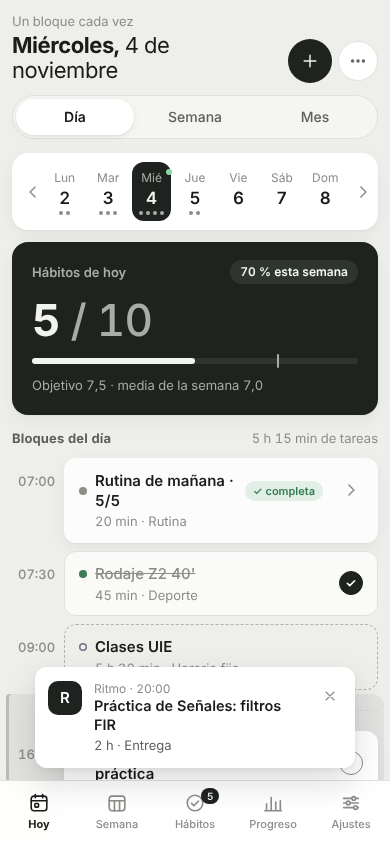
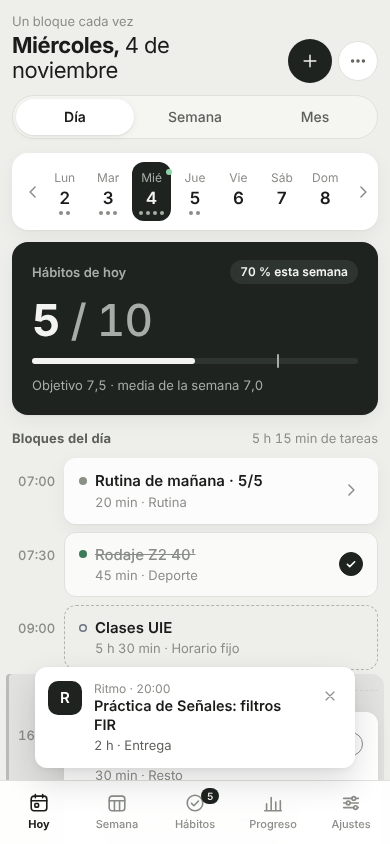
26-ritmo: organizador de hábitos y rutinas terminado (55 tests + smoke)
Bloques del día con franjas de foco, revisión nocturna con propuesta de bloques,
mínimos de deporte y francés, rutinas Mañana/Noche, .ics y JSON; escribe en habitos.v1
con protocolo de lectura-modificación-escritura y lee el resto de apps en solo lectura.

Claude-Session: https://claude.ai/code/session_01EwHxjkazRTL95ooTegBwNP

diff --git a/26-ritmo/styles.css b/26-ritmo/styles.css
@@ -115,6 +115,7 @@ main { margin-left: var(--sidebar-w); padding: var(--s-5); min-height: 100vh; }
 .btn .ic { width: 18px; height: 18px; }
 .btn-primary { background: var(--dark); color: var(--on-dark); }
 .btn-primary:hover { background: color-mix(in srgb, var(--dark) 88%, #fff); }
+@media (prefers-color-scheme: dark) { .btn-primary, .toast-act { box-shadow: inset 0 0 0 1px color-mix(in srgb, var(--accent) 45%, transparent); } }
 .btn-secondary { background: var(--surface); color: var(--ink); border-color: var(--line); }
 .btn-secondary:hover { background: var(--surface-2); }
 .btn-ghost { background: transparent; color: var(--ink-2); }

diff --git a/26-ritmo/README.md b/26-ritmo/README.md
@@ -1,0 +1,132 @@
+# 26 · Ritmo — Mi organizador de hábitos y rutinas
+
+## 1. Qué es y para qué te sirve
+
+**Ritmo es tu hub del día: planifico, organizo tareas y sigo mis hábitos sin saltar entre apps.** Convierte la skill
+`01-claude-skills/organizador-diario` en una herramienta que se abre con doble clic:
+
+- **Orden de prioridad fijo:** evento → entrega (peso × urgencia) → mínimos de deporte y francés → Fase 0 → resto.
+- **Franjas de energía:** entreno solo antes de las 9:00 o desde las 19:00; **20:00–23:00 mejor foco** (deep work);
+  **15:00–17:00 peor foco** (tareas mecánicas). Ritmo avisa si colocas algo donde no toca.
+- **Mínimos innegociables como números:** deporte **suelo 3 · estándar 5** por semana (contando Hábitos, Gym Tracker,
+  carreras de Paso y tus tareas hechas, sin contar dos veces la misma sesión) y francés **30' al día con arrastre**
+  (lo que no haces hoy se suma mañana, exactamente como en `21-idiomas-plan`).
+- **Tus 10 hábitos, objetivo 7,5/día**, compartidos con `15-habitos` (mismo `habitos.v1`): marcas en Ritmo y lo ves
+  en la hoja completa, y al revés. Lo mejor de la captura que te gustaba: **rutinas y progreso en un solo sitio**.
+- **Revisión nocturna** tarea a tarea que te propone los bloques de mañana (Top 3, lo que se mueve y hábitos en riesgo).
+- **Mis apps:** Gym, Idiomas, Finanzas, Paso y Hábitos de un vistazo (solo lectura).
+
+| Escritorio | Móvil |
+|---|---|
+| ![Ritmo en escritorio](captura-escritorio.png) | ![Ritmo en el móvil](captura-movil.png) |
+
+## 2. Cómo usarlo
+
+- **Doble clic** en `26-ritmo/index.html`. Funciona sin internet, sin instalar nada.
+- **En el móvil:** abre `https://davidcormar.github.io/Mix_ideas/26-ritmo/` y usa **«Añadir a pantalla de inicio»**.
+- **Primer día:** en *Ajustes y datos* pon tu horario fijo (p. ej. Clases UIE L–V 9:00–14:30) o pulsa
+  **«Cargar datos de ejemplo»** para ver un día completo.
+- **Atajos:** `n` nueva tarea · `r` revisión nocturna · `t` hoy · `←`/`→` día anterior/siguiente · `Esc` cierra avisos.
+- **Exporta el JSON de vez en cuando** (*Ajustes → Exportar JSON*): los datos viven solo en este navegador.
+- **Calendario:** *Exportar día/semana (.ics)* se importa en Google Calendar (zona Europe/Madrid, con horario de verano).
+
+**Revisión nocturna en 4 pasos** (botón 🌙, se resalta desde las 20:00):
+
+1. **Tarea por tarea:** para cada tarea abierta hasta mañana: *Hecha* (H), *Mañana* (M), *Nueva fecha* (F),
+   *Archivar* (A) o *Mantener* (S); «← Atrás» deshace. Con más de 15 tareas, tabla con desplegables.
+2. **¿Algo nuevo?:** barre Calendario · Correo · Campus/entregas · Notas de Obsidian y añade lo que salga; el backlog sin
+   fecha se puede pasar a mañana.
+3. **Mañana:** propuesta de bloques (Hora | Bloque | Tarea | Prioridad) respetando franjas, tope de 6 h de foco y 30' de
+   margen. Marca/desmarca y **Aceptar plan**.
+4. **Listo:** resumen y **Guardar y terminar** (marca «Revisión nocturna en Ritmo» en tu rutina de noche). Nada se guarda
+   antes; el aviso final tiene **Deshacer** durante 8 s.
+
+**Tests** (desde `26-ritmo/`):
+
+```bash
+node --test tests/*.test.js
+NODE_PATH=$(npm root -g) node tests/smoke.js
+```
+
+**Lectura entre apps:** la lectura entre apps funciona cuando comparten origen (p. ej. GitHub Pages: todo cuelga de
+`davidcormar.github.io/Mix_ideas/`). En `file://` depende del navegador: Chrome/Edge comparten `localStorage` entre
+archivos locales; Firefox aísla cada archivo, así que ahí Ritmo no verá Hábitos, Gym, Idiomas, Finanzas ni Paso.
+
+## 3. Qué está hecho
+
+- ✅ **Hoy:** tira semanal, línea del día con «Ahora», notas, avisos de franja y solapes, bandas de foco (15–17 y 20–23),
+  rutinas desplegables, *Sin hora* y *Atrasadas*, tarjeta oscura «Hábitos de hoy X / 10 · % esta semana», lista de
+  hábitos con barras de 7 días, mínimos de deporte y francés, 3 objetivos del mes.
+- ✅ **Semana** (7 columnas, horas planificadas y resumen), **Mes** (mapa de calor de hábitos, puntos por categoría, ⚑ de
+  entregas), **Hábitos** (racha, % 30 días, hábito más flojo con truco, gráfico de 14 días), **Rutinas** (checklist,
+  racha, editor), **Progreso** (4 gráficos SVG) y **Mis apps**.
+- ✅ Revisión nocturna completa y «Proponer bloques para este día» (desde la hora actual si es hoy).
+- ✅ Algoritmo `proposeDay` con el vector normativo de la especificación como test.
+- ✅ Marcado automático del hábito al terminar una tarea de deporte/francés o completar una rutina (nunca desmarca).
+- ✅ Recordatorios en avisos (y Notificaciones del sistema si las permites), `.ics` del día y de la semana.
+- ✅ Exportar/importar JSON (con validación previa), datos de ejemplo deterministas, «Borrar datos de Ritmo» (solo `ritmo.v1`).
+- ✅ Modo oscuro, móvil desde 360 px sin scroll horizontal, barra inferior, foco visible y navegación por teclado.
+- ✅ 55 tests de lógica (`node --test`) + smoke de Playwright (flujo completo, compatibilidad con 15-hábitos, 360 px, modo oscuro).
+
+## 4. Qué falta / siguientes pasos
+
+- Arrastrar y soltar bloques en la línea del día.
+- Partir tareas largas en varios bloques (hoy solo se avisa a partir de 2 h).
+- Service worker para avisos en segundo plano (ahora solo con la pestaña abierta).
+- Tareas recurrentes (p. ej. «Anki cada día»).
+- Que `15-habitos` relea `localStorage` antes de guardar (ver Decisiones) — fuera del alcance de esta carpeta.
+
+## 5. Decisiones
+
+- **`habitos.v1` compartido con lectura-modificación-escritura.** Ritmo nunca usa una copia en caché: cada clic relee
+  la clave, aplica solo `setTick` o `setObjective` y la vuelve a guardar compacta (como 15-hábitos). Nunca renombra,
+  añade, borra ni reordena hábitos, ni borra meses ni toca otras claves; los campos desconocidos sobreviven intactos. Si
+  la clave no es válida aparece un aviso, los botones se desactivan y no se escribe nada. La única «reparación» es
+  añadir la lista de hábitos por defecto si falta, porque 15-hábitos se rompe sin ella.
+- **Aviso de pestaña antigua de 15-hábitos.** 15-hábitos guarda su objeto entero en cada cambio; si lo tienes abierto
+  en otra pestaña a la vez que Ritmo, puede sobrescribir los ticks que hizo Ritmo. Recarga 15-hábitos antes de usarlo
+  (o ciérralo mientras usas Ritmo). Ritmo sí escucha el evento `storage` y se actualiza solo.
+- **Semántica de idiomas reutilizada.** El francés usa la fórmula de `pending()` de 21-idiomas
+  (`p = max(0, p + suelo − hecho)` desde el 15-10-2026, sin contar «extra»); un test la compara con el código real de
+  21-idiomas. Si `idiomas.v1` no existe, se cuentan tus tareas de francés hechas en Ritmo desde el primer uso. El suelo
+  sale de Ajustes (30' por defecto, igual que 21-idiomas). Igual que 21-idiomas, una entrada mal formada invalida la
+  clave entera.
+- **Deporte deduplicado con el máximo por día:** `n = max(tick del hábito, gym + carreras, tareas de Ritmo hechas)`.
+  La misma sesión apuntada en dos sitios cuenta una vez; dos sesiones reales (gym + carrera) cuentan dos. Paso usa el
+  mismo código (sin las tareas de Ritmo), así que sus números coinciden.
+- **Deduplicación de Health por la fuente máxima y su límite** (decisión de 27-Paso): Ritmo solo lee los pasos de hoy
+  que Paso ya ha calculado; si Paso subestima un día por solaparse dos dispositivos, Ritmo muestra lo mismo.
+- **Zancada = 0,415 × altura** y **rampa de verdura de la guía** son decisiones de 27-Paso; Ritmo no las recalcula,
+  solo muestra pasos/objetivo y comidas.
+- **Sin frameworks ni CDN:** 4 archivos (`index.html`, `styles.css`, `logic.js`, `app.js`), scripts clásicos (no
+  `type="module"`, que falla en `file://`), sin fuentes web; el favicon es un `data:` URI.
+- **Formato español a mano:** `fmtInt(8420) = "8.420"` (el locale es-ES no agrupa números de 4 cifras), decimales con coma
+  y fechas en castellano sin `toLocaleString`. Las fechas se calculan como texto/UTC (seguras con el cambio de hora) y
+  nunca con `toISOString()` para el «hoy» local.
+- **Lógica pura y testeable:** todo lo que decide (prioridades, franjas, propuesta del día, rachas, ICS, importación)
+  vive en `logic.js` sin DOM ni reloj oculto; `app.js` solo pinta y guarda.
+
+**Decisiones propias donde la especificación era ambigua:**
+
+- *Vector de `weekPct`:* el ejemplo «hoy 2026-11-01, 21/30 → 70» no cuadra (el 1-11 es domingo: 7 días × 10 hábitos =
+  70 casillas). El test cubre ese caso con 49/70 → 70 % leyendo octubre y noviembre, y el 21/30 → 70 % con la semana
+  30-11…2-12 (3 días × 10), que también cruza de mes.
+- *Recordatorios fijos:* los avisos de recordatorio se quedan hasta que los cierras (✕ o Esc) en vez de 4 s, para no
+  perderlos si no estabas mirando; el resto de avisos dura 4 s (8 s con «Deshacer»). Máximo 3 a la vez.
+- *«Mañana» en la revisión* significa el día que se planifica (`reviewDay + 1`); así, una revisión a la 01:30 mueve las
+  tareas a hoy, no a pasado mañana. «Hecha» en la revisión apunta `doneOn = reviewDay`.
+- *Marcar hecha desde la línea del día* pone `doneOn` = fecha de la tarea si es pasada (si te olvidaste de marcarla
+  ayer, cuenta para ayer); si no, hoy.
+- *Propuesta del día:* además de reutilizar la tarea de deporte/francés del propio día, reutiliza una atrasada sin
+  hora de esa categoría antes de crear una nueva (evita duplicados), y coloca en su franja las tareas explícitas de
+  deporte/francés que sobren. Si hoy ya hay deporte hecho o con hora, no propone otro. Al aceptar un bloque de francés
+  reutilizado, la tarea toma la duración del bloque.
+- *Fuentes del deporte:* «Fuentes: …» lista las apps con datos disponibles en este navegador.
+- *Deshacer* restaura `ritmo.v1`; los hábitos marcados automáticamente se quedan (Ritmo nunca desmarca).
+- *Datos de ejemplo en Hábitos:* solo si `habitos.v1` falta o no tiene ningún tick, y siempre con `setTick`/`setObjective`
+  (si ya tenías tu propia lista de hábitos sin ticks, se respeta).
+- *Gráficos* dibujados al ancho real de su tarjeta (se redibujan al cambiar el tamaño de la ventana) para que el texto
+  no se deforme.
+- *Firmas concretas:* `sportByDay` recibe el objeto `habitos.v1` en `habits` y `ritmoDone` como lista de fechas;
+  `frenchStatus(src, …)` recibe `src = { idiomas, tasks }`; `readGym(raw, today)` devuelve `{sessions, thisWeek, last}`;
+  `setTick(data, iso, h, on, today)` necesita `today` explícito (sin reloj oculto).

diff --git a/README.md b/README.md
@@ -35,6 +35,7 @@ Cada carpeta tiene su propio `README.md` (qué es, cómo usarlo, qué está hech
 | 24 | [`24-carrera-practicas/`](24-carrera-practicas/) | Mapa de empresas (F1, espacio, IA, Galicia), calendario a ene-2028, CV ML y 32 preguntas de entrevista en inglés | 💡 |
 | 25 | [`25-habilidades/`](25-habilidades/) | Plan de habilidades (retórica, estoicismo, móvil antidopamina…) + app de mecanografía y atajos | ✅ |
 | **De tus capturas** | | | |
+| 26 | [`26-ritmo/`](26-ritmo/) | Organizador de hábitos y rutinas: bloques del día con tus franjas, revisión nocturna, mínimos de deporte y francés, rutinas, comparte hábitos con 15 | ✅ |
 | 27 | [`27-paso/`](27-paso/) | Pasos y comidas sin calorías: anillo de pasos, raciones con la mano (verdura = punto débil), agua, importación de Apple Health/CSV, historial del mes | ✅ |
 
 ## Tests
